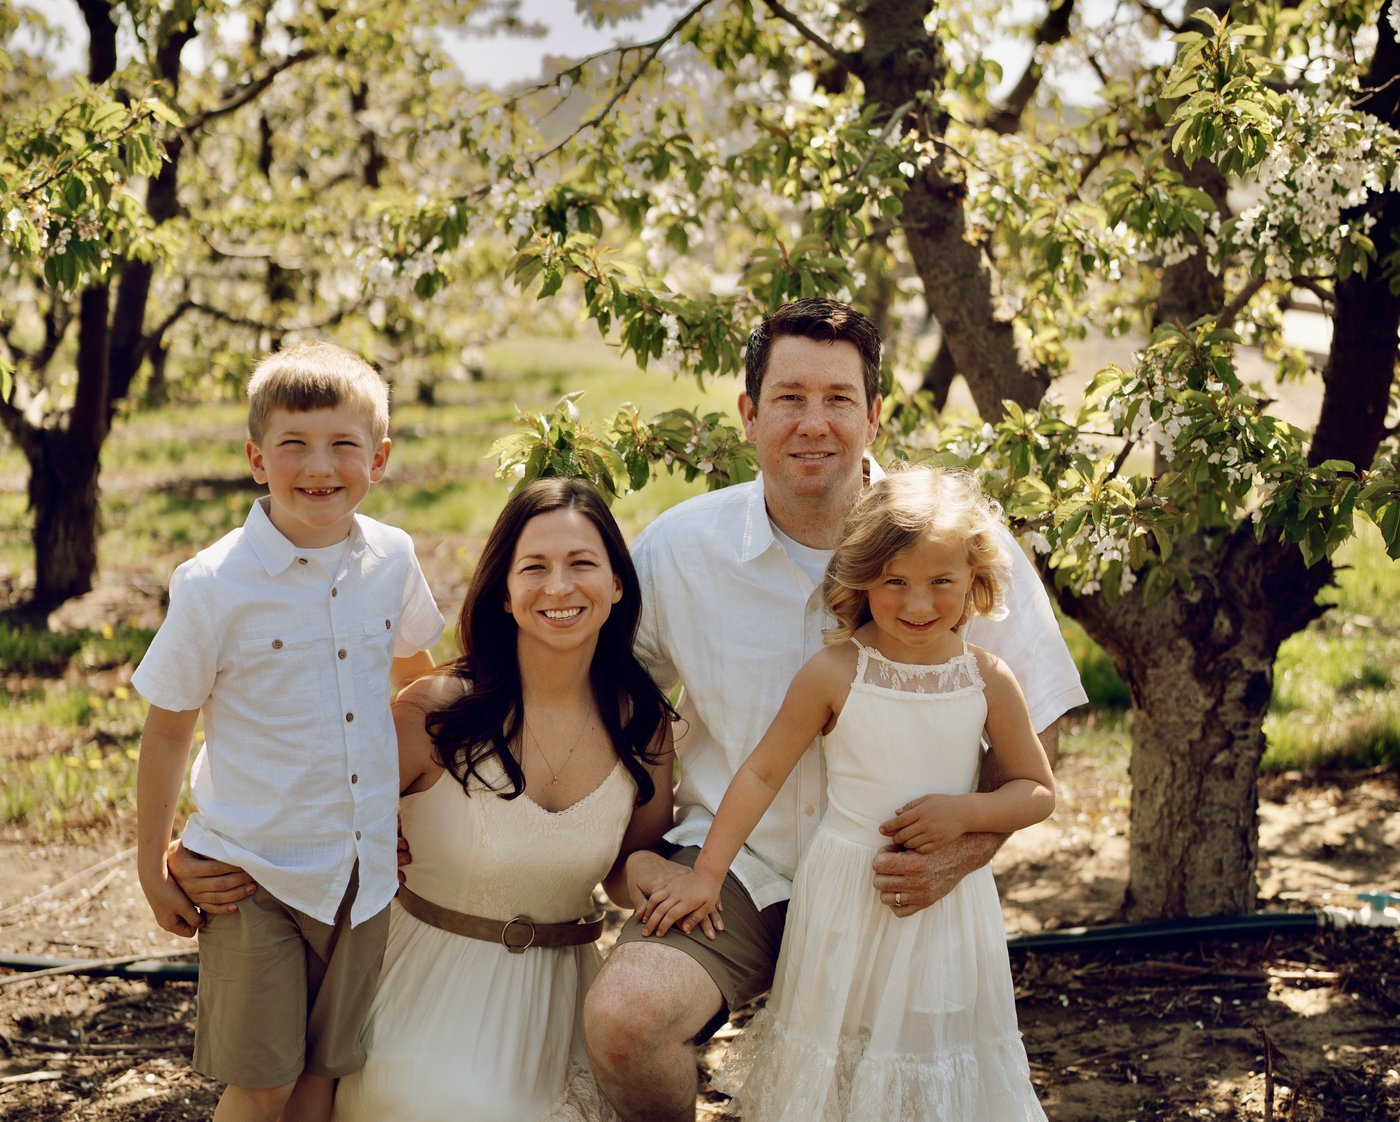
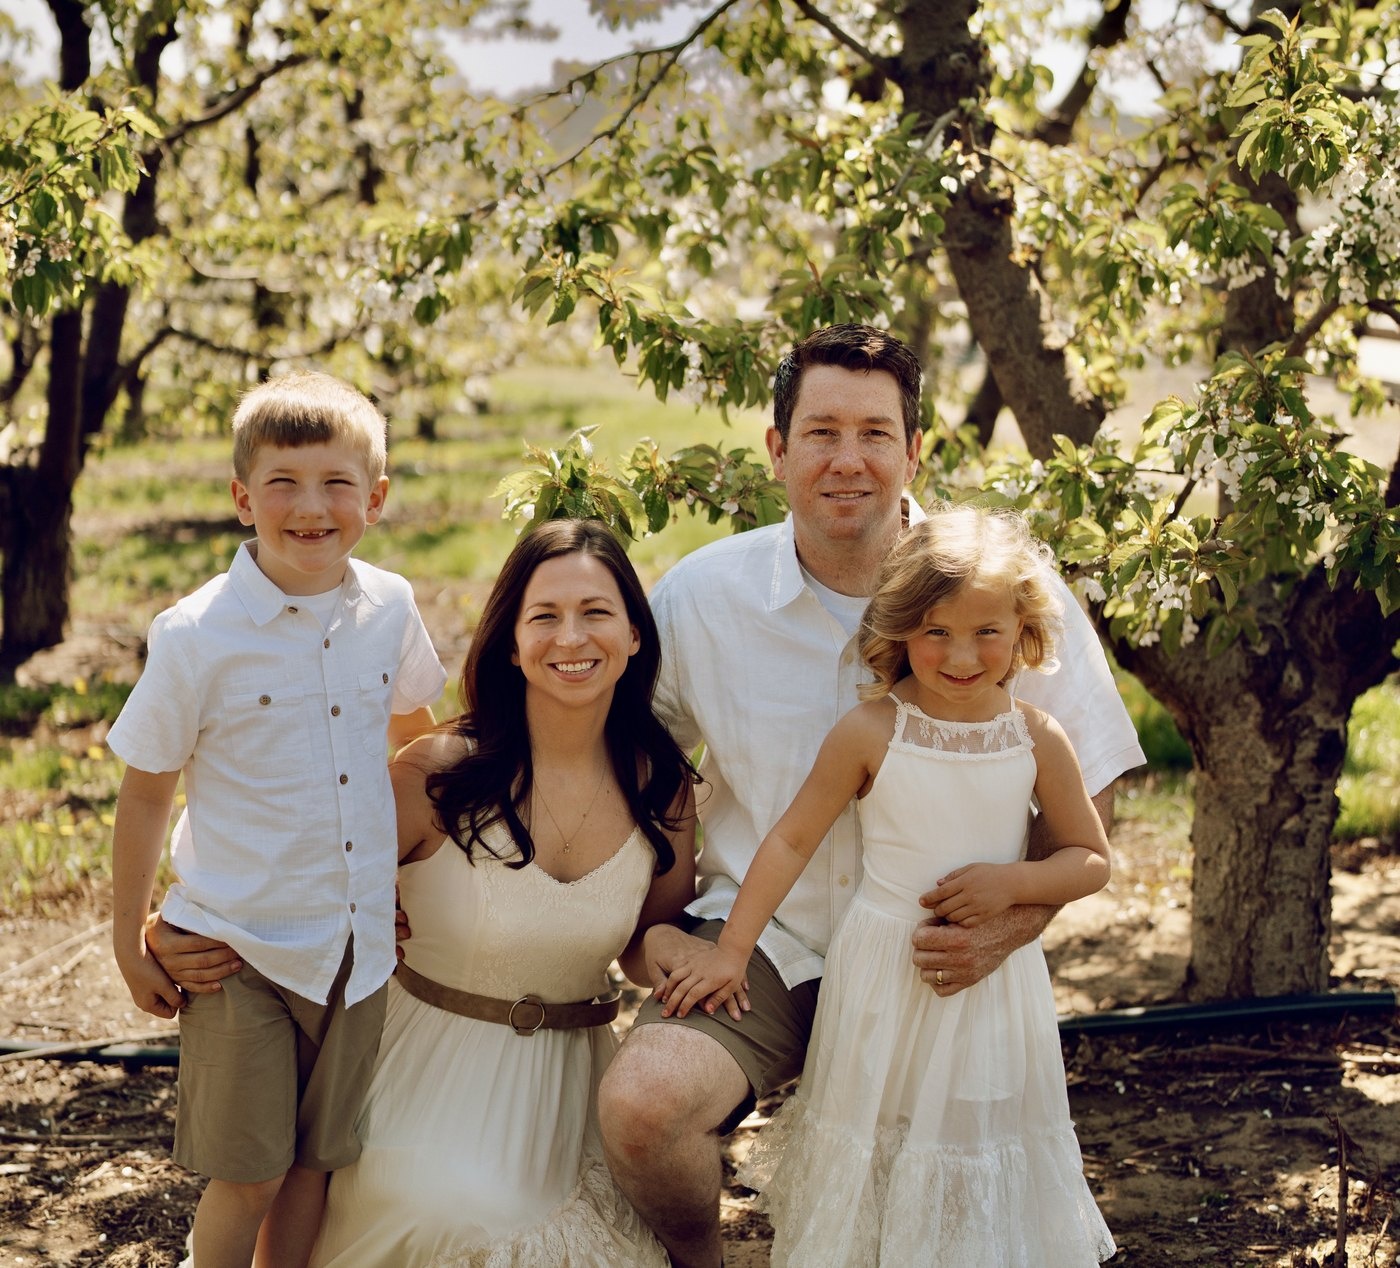
Mobile responsive fixes + re-centered family photo
- Full-width hero buttons (fix: hero-btns was 169px, now 338px)
- Hero tag displays as centered block on mobile, no awkward ::before dash wrap
- Donate banner button stretches full width on mobile
- Section heading margin reduced (4rem → 2rem) on mobile
- Hero and bio min-height set to auto on mobile to prevent oversized sections
- Padding reduced slightly on sections (5rem → 4rem) for tighter mobile layout
- Checkbox grid stays 2-column on mobile (reverted from single-column)
- OG/Twitter image tags updated to family.jpg
- Re-cropped family.jpg: left-shifted crop to center family group, 389KB

diff --git a/index.html b/index.html
@@ -18,15 +18,15 @@
   <meta property="og:url" content="https://foresight-productions.github.io/fp-candidate-berg-ld15/">
   <meta property="og:title" content="Reedy Berg for WA State House · LD-15 Position 2">
   <meta property="og:description" content="Yakima Valley raised. Teacher by calling. Fighting for LD-15 in Olympia.">
-  <meta property="og:image" content="https://images.unsplash.com/photo-1500382017468-9049fed747ef?w=1200&h=630&fit=crop&auto=format">
-  <meta property="og:image:width" content="1200">
-  <meta property="og:image:height" content="630">
+  <meta property="og:image" content="https://foresight-productions.github.io/fp-candidate-berg-ld15/family.jpg">
+  <meta property="og:image:width" content="1400">
+  <meta property="og:image:height" content="1268">
   <meta property="og:site_name" content="Reedy Berg for State House">
   <meta property="og:locale" content="en_US">
   <meta name="twitter:card" content="summary_large_image">
   <meta name="twitter:title" content="Reedy Berg for WA State House · LD-15 Position 2">
   <meta name="twitter:description" content="Yakima Valley raised. Teacher by calling. Fighting for LD-15 in Olympia.">
-  <meta name="twitter:image" content="https://images.unsplash.com/photo-1500382017468-9049fed747ef?w=1200&h=630&fit=crop&auto=format">
+  <meta name="twitter:image" content="https://foresight-productions.github.io/fp-candidate-berg-ld15/family.jpg">
 
   <link rel="preconnect" href="https://fonts.googleapis.com">
   <link rel="preconnect" href="https://fonts.gstatic.com" crossorigin>
@@ -499,41 +499,45 @@
 
     /* ===== RESPONSIVE ===== */
     @media (max-width: 900px) {
-      .hero { grid-template-columns: 1fr; }
+      .hero { grid-template-columns: 1fr; min-height: auto; }
       .hero-right { height: 55vw; max-height: 420px; order: -1; }
-      .hero-left { padding: 4rem 5%; align-items: center; text-align: center; }
+      .hero-left { padding: 3rem 5%; align-items: center; text-align: center; }
       .hero-tag { justify-content: center; }
       .hero-divider { margin: 1.6rem auto; }
       .hero-tagline { margin-left: auto; margin-right: auto; }
       .hero-btns { justify-content: center; }
       .hero-right-overlay { background: linear-gradient(to top, rgba(5,5,5,0.8) 0%, transparent 50%); }
-      .bio { grid-template-columns: 1fr; }
+      .bio { grid-template-columns: 1fr; min-height: auto; }
       .bio-photo { height: 60vw; }
       .bio-photo-overlay { background: linear-gradient(to top, var(--surface) 0%, transparent 40%); }
-      .bio-content { padding: 4rem 5%; }
+      .bio-content { padding: 3.5rem 5%; }
       .volunteer { grid-template-columns: 1fr; gap: 3rem; }
       .contact-inner { grid-template-columns: 1fr; gap: 3rem; }
     }
 
     @media (max-width: 768px) {
-      section, .issues, .endorsements, .updates, .volunteer, .contact { padding: 5rem 5%; }
-      .donate-banner { padding: 5rem 5%; }
+      section, .issues, .endorsements, .updates, .volunteer, .contact { padding: 4rem 5%; }
+      .donate-banner { padding: 4rem 5%; }
       .nav-links { display: none; }
       .nav-toggle { display: flex; }
+      .section-heading { margin-bottom: 2rem; }
       .issue-row { grid-template-columns: 48px 1fr; }
       .issue-arrow { display: none; }
       .issue-num { font-size: 2.5rem; }
-      .donate-banner { flex-direction: column; align-items: flex-start; }
-      .hero-btns { flex-direction: column; }
+      .donate-banner { flex-direction: column; align-items: stretch; }
+      .donate-banner .btn-white { text-align: center; }
+      .hero-tag { display: block; text-align: center; }
+      .hero-tag::before { display: none; }
+      .hero-btns { flex-direction: column; align-items: center; width: 100%; }
       .hero-btns .btn-red, .hero-btns .btn-ghost { width: 100%; max-width: 300px; justify-content: center; }
       .bio-stats { grid-template-columns: 1fr 1fr; }
       .updates-form { flex-direction: column; }
       .updates-form button { padding: 0.9rem; min-height: 48px; }
       .form-row { grid-template-columns: 1fr; }
-      .checkbox-grid { grid-template-columns: 1fr; }
+      .checkbox-grid { grid-template-columns: 1fr 1fr; }
       .footer-top { flex-direction: column; align-items: flex-start; }
       .footer-bottom { flex-direction: column; }
-      .footer-disclosure { text-align: left; }
+      .footer-disclosure { text-align: left; max-width: 100%; }
     }
 
     @media (max-width: 480px) {
